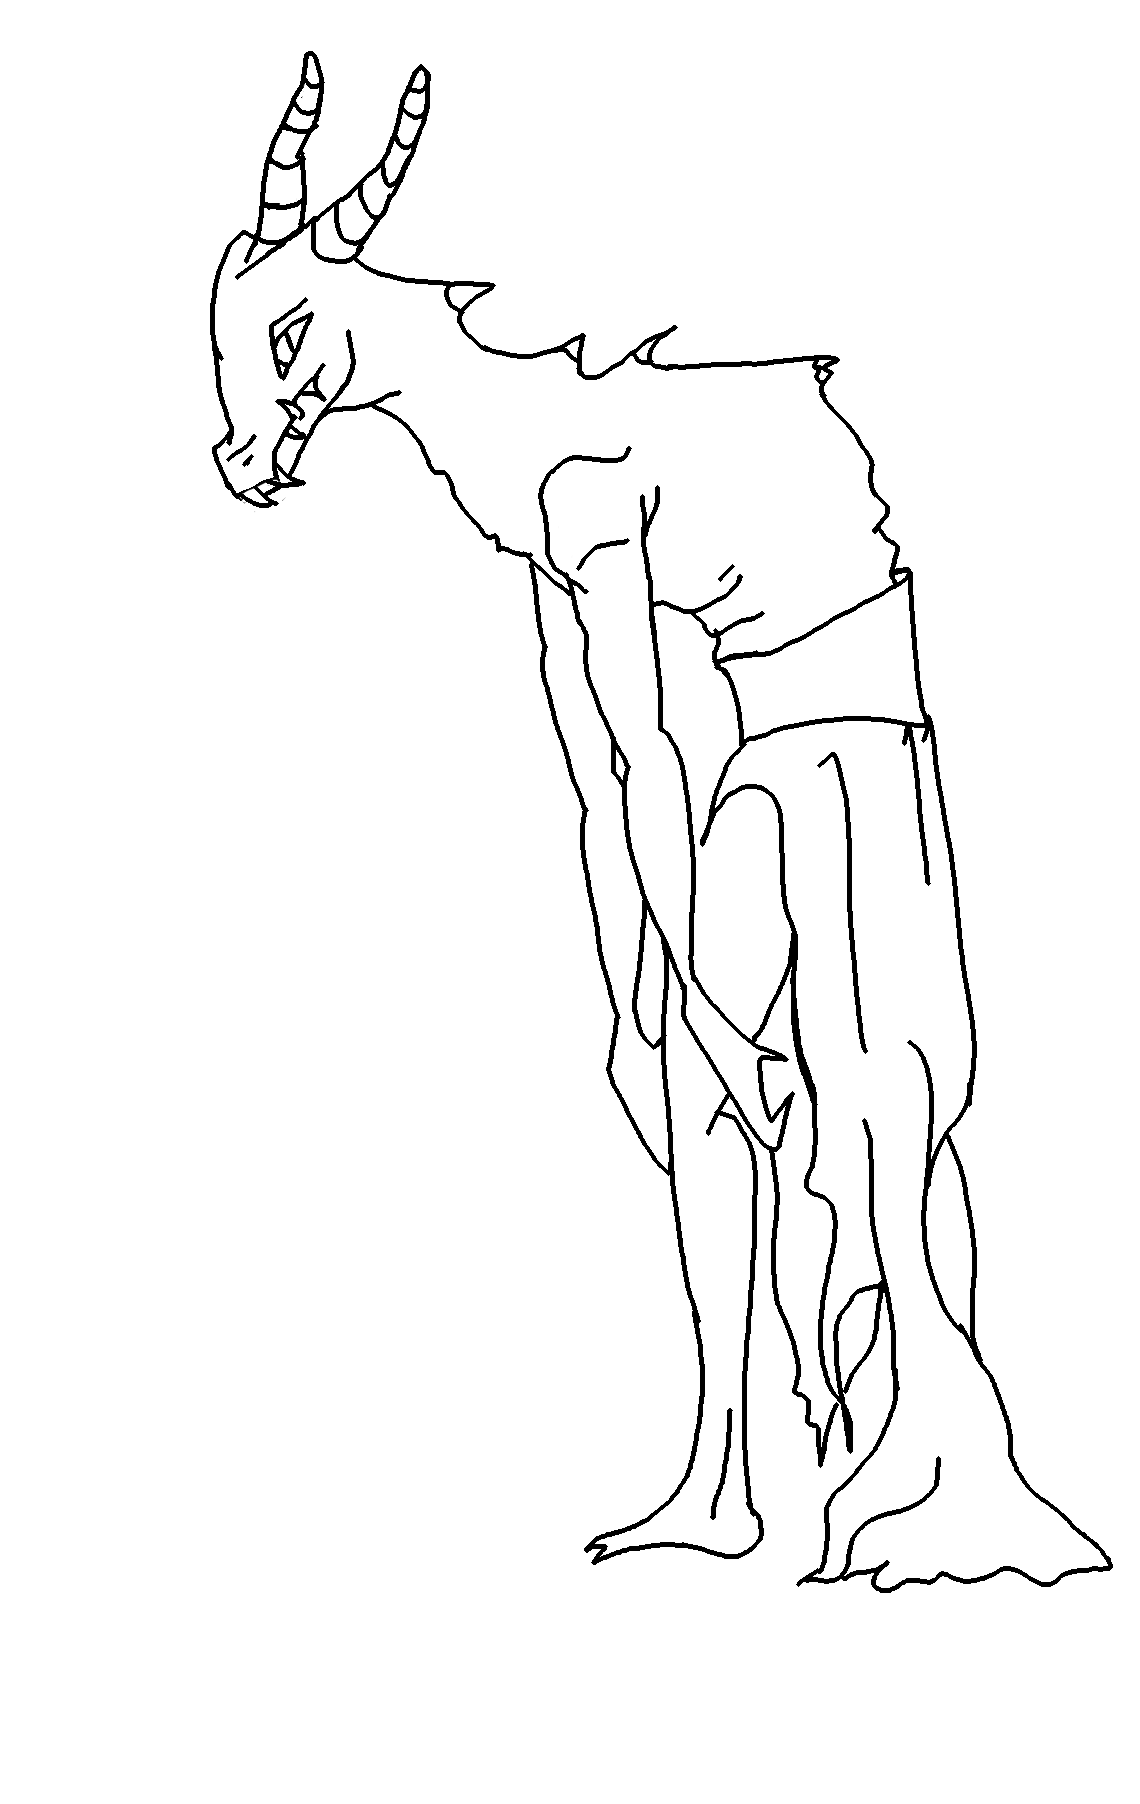
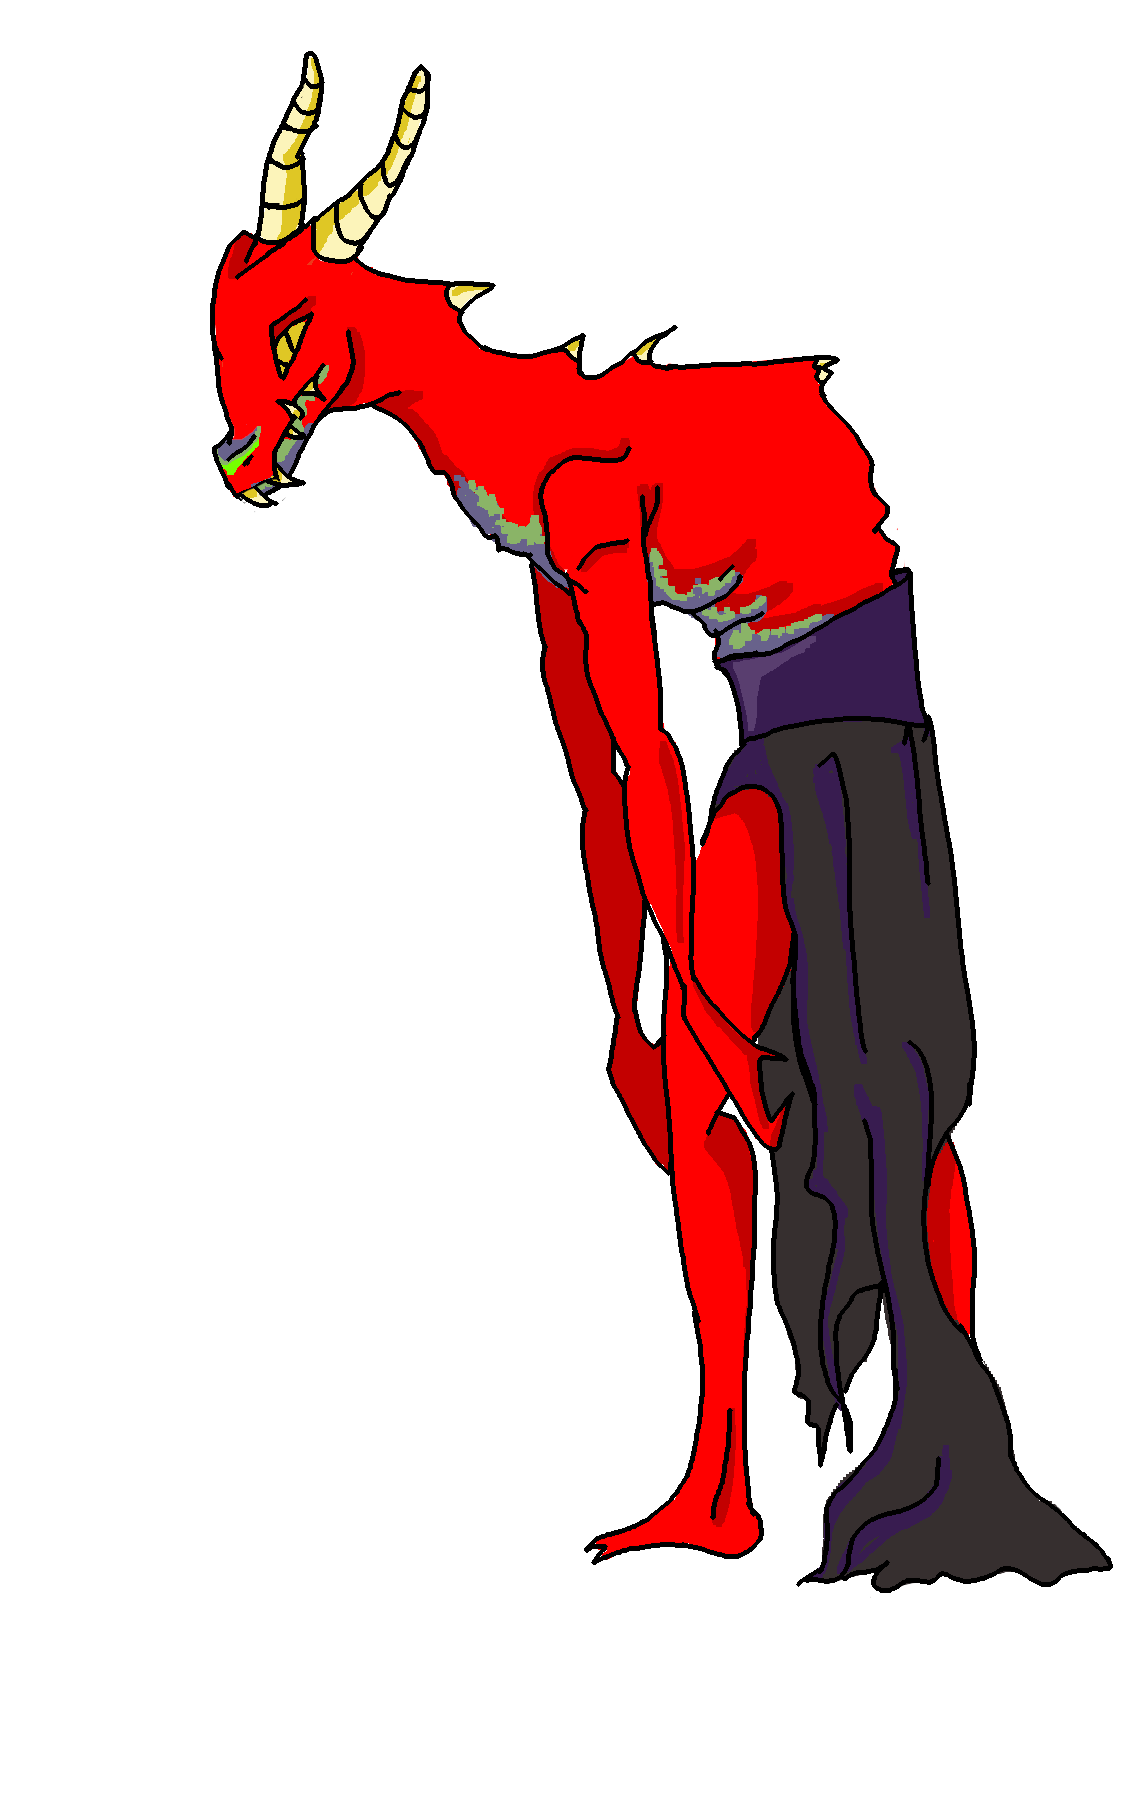
updated assets, fixed spawning and facing position of demons

Changed region(s): [[0.1842, 0.031, 0.9825, 0.9002]]

diff --git a/cs325-game-prototypes/Soul-Escape/assets/js/GameStage1.js b/cs325-game-prototypes/Soul-Escape/assets/js/GameStage1.js
@@ -28,6 +28,10 @@ BasicGame.GameStage1 = function (game) {
 
 };
 
+var flipped = true;
+var demons;
+var demonsSpawned = 0;
+
 BasicGame.GameStage1.prototype = {
 
     create: function () {
@@ -43,7 +47,13 @@ BasicGame.GameStage1.prototype = {
 		
 		map.setCollisionBetween(1, 32);
 
-		player = this.game.add.sprite(this.game.world.centerX, 10050, 'player');
+		spawnpoint = this.game.add.sprite(200, 3850, 'spawnPoint');
+		demons = this.game.add.group();
+		demons.enableBody=true;
+		spawnTimer = this.game.time.create(false);
+		spawnTimer.loop(3000, spawn, this);
+
+		player = this.game.add.sprite(this.game.world.centerX, 4000, 'player');
 		player.anchor.setTo(0.5,0.5);
 		player.scale.setTo(0.2,0.2);
 		
@@ -69,14 +79,43 @@ BasicGame.GameStage1.prototype = {
     },
 
     update: function () {
+    	demons.forEach(function move(demon){
+    		this.game.physics.arcade.moveToObject(demon, player, 140);
+			if(demon.body.position.x < player.body.position.x && demon.scale.x > 0){
+				demon.scale.x *= -1;
+			}
+			else if(demon.body.position.x > player.body.position.x && demon.scale.x < 0){
+				demon.scale.x *= -1;
+			}
+    	}, this.game.physics.arcade, false, 200);
+    	if(demonsSpawned < 3)
+    		spawnTimer.start();
+    	else
+    		spawnTimer.stop();
     	if(a.isDown){
-    		player.body.position.x -= 30;
+    		if(flipped){
+    			player.scale.x *= -1;
+    			flipped = false;
+    		}
+    		player.body.position.x -= 20;
     	}
     	if(d.isDown){
-    		player.body.position.x += 30;
+    		if(!flipped){
+    			player.scale.x *= -1;
+    			flipped = true;
+    		}
+    		player.body.position.x += 20;
     	}
 		if(!bgmusic.isPlaying){
             bgmusic.play();
         }
     }
 };
+
+function spawn(){
+	demon = demons.create(spawnpoint.x, spawnpoint.y, 'demon');
+	demon.anchor.setTo(0.5,0.5);
+    demon.scale.setTo(0.2,0.2);
+    demon.scale.x *= -1;
+    demonsSpawned++;
+}

diff --git a/cs325-game-prototypes/Soul-Escape/assets/js/Boot.js b/cs325-game-prototypes/Soul-Escape/assets/js/Boot.js
@@ -15,6 +15,9 @@ BasicGame.Boot.prototype = {
         if (this.game.device.desktop)
         {
             //  If you have any desktop specific settings, they can go in here
+            this.scale.scaleMode = Phaser.ScaleManager.SHOW_ALL;
+            this.scale.setMinMax(640, 360, 2560, 1440);
+            this.scale.forceLandscape = true;
             this.scale.pageAlignHorizontally = true;
         }
         else
@@ -22,10 +25,9 @@ BasicGame.Boot.prototype = {
             //  Same goes for mobile settings.
             //  In this case we're saying "scale the game, no lower than 480x260 and no higher than 1024x768"
             this.scale.scaleMode = Phaser.ScaleManager.SHOW_ALL;
-            this.scale.setMinMax(1000, 500, 2000, 1000);
+            this.scale.setMinMax(500, 300, 1000, 600);
             this.scale.forceLandscape = true;
             this.scale.pageAlignHorizontally = true;
-            this.scale.supportsFullscreen = true;
         }
 
     },

diff --git a/cs325-game-prototypes/Soul-Escape/assets/js/Preloader.js b/cs325-game-prototypes/Soul-Escape/assets/js/Preloader.js
@@ -23,7 +23,9 @@ BasicGame.Preloader.prototype = {
 		this.game.load.tilemap('environment', 'assets/environment.csv', null, Phaser.Tilemap.TILED_CSV);
 		this.game.load.image('tileset', 'assets/TempTileSet.png');
 		this.game.load.image('background', 'assets/background.png');
-		this.game.load.image('player', 'assets/DemonStandby.png');
+		this.game.load.image('player', 'assets/HeroStandby.png');
+		this.game.load.image('demon', 'assets/DemonStandby.png');
+		this.game.load.image('spawnPoint', 'assets/SpawnPoint.png');
 		this.load.atlas('playButton', 'assets/play_button.png', 'assets/play_button.json');
         this.load.audio('menu', 'assets/Hyouhaku.mp3');
         this.load.audio('music', 'assets/Kokuten.mp3')
